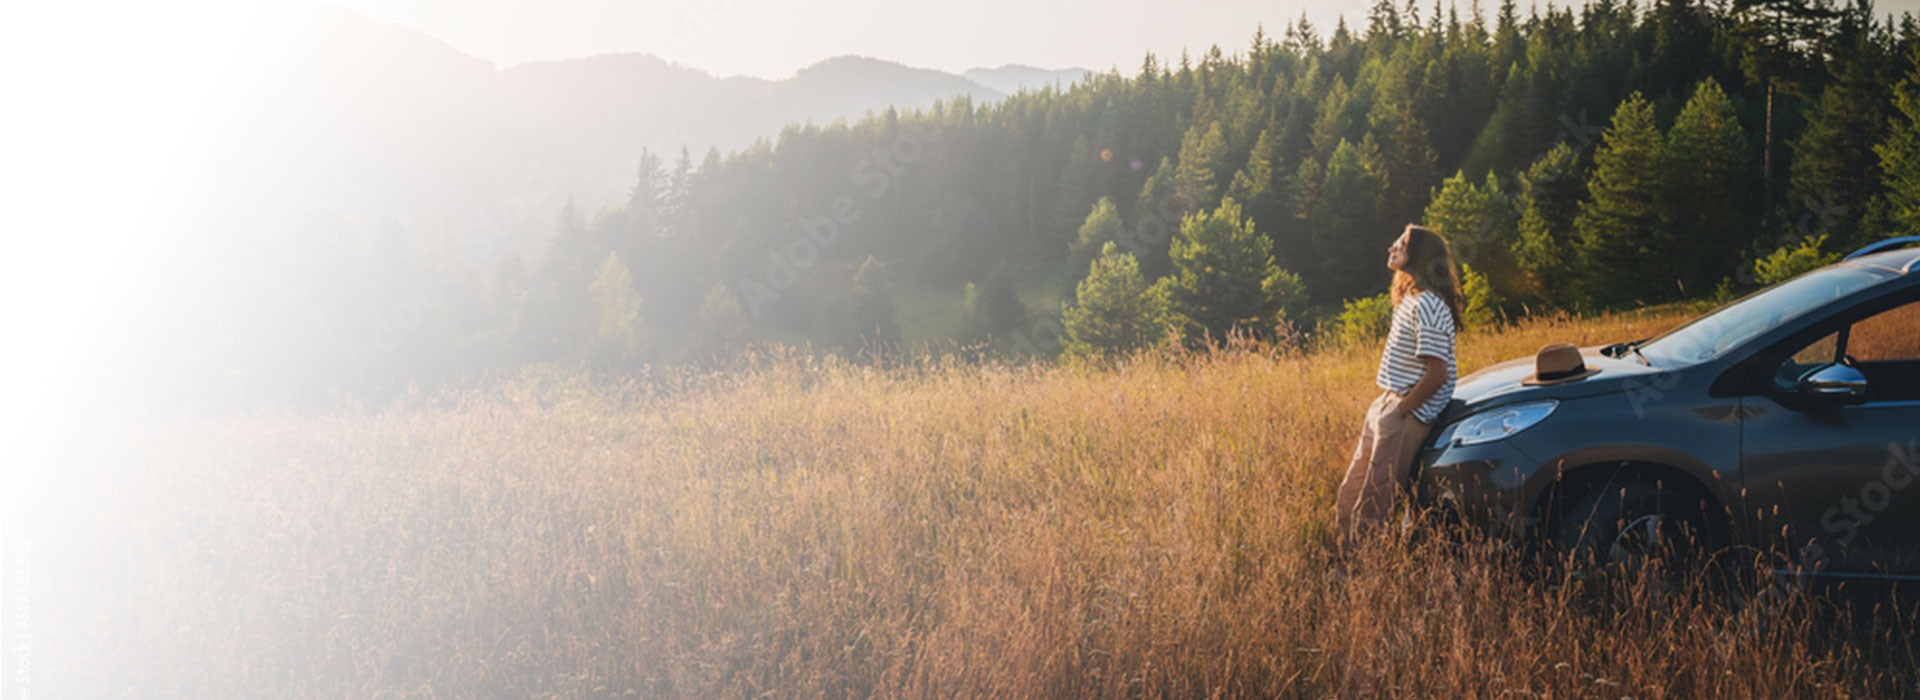
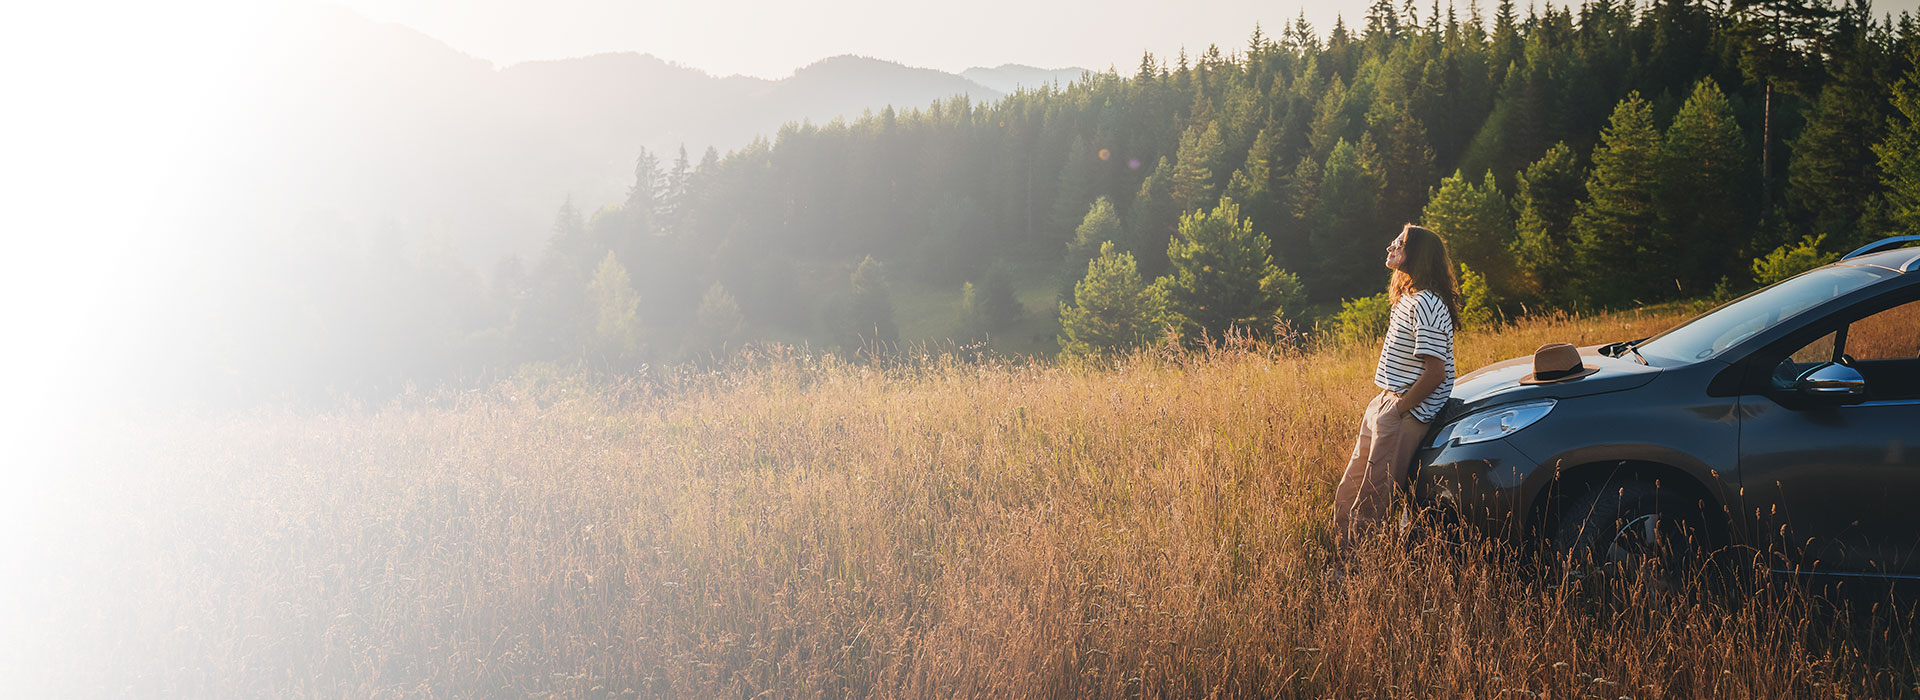
.

diff --git a/index2.html b/index2.html
@@ -97,7 +97,7 @@
       </nav>
 
       <section class="mt-7 py-0">
-        <div class="bg-holder  d-none d-lg-block" style="background-image:url(assets/img/img/home-bg.jpg);">
+        <div class="bg-holder  d-none d-lg-block" style="background-image:url(assets/img/img/home-bg.webp);">
         </div>
        
         <div class="container">
@@ -105,10 +105,10 @@
             <div class="col-lg-6 py-3 pt-xl-2 pb-xxl-4 pb-xl-4 pt-xxl-2" >
               <div class="row gx-0">
                 <div class="col-lg-3 d-sm-none d-lg-block" >
-               <img  src="assets/img/img/co2-home.png" class="d-sm-none d-lg-block ">
+               <img  src="assets/img/img/co2-home.png" class="d-sm-none d-lg-block " width="70px">
                </div>
                <div class="col-lg-9 d-sm-none d-lg-block" >
-              <h5 class="pt-3 fw-bold text-primary">Compensamos la huella <br>de carbono de tu alquiler</h5>
+              <h6 class="pt-2 fw-bold text-primary">Compensamos la huella <br>de carbono de tu alquiler</h6>
             </div>
             </div>
               <h3 class="display-3  fw-normal">Alquiler de Autos</h3>
